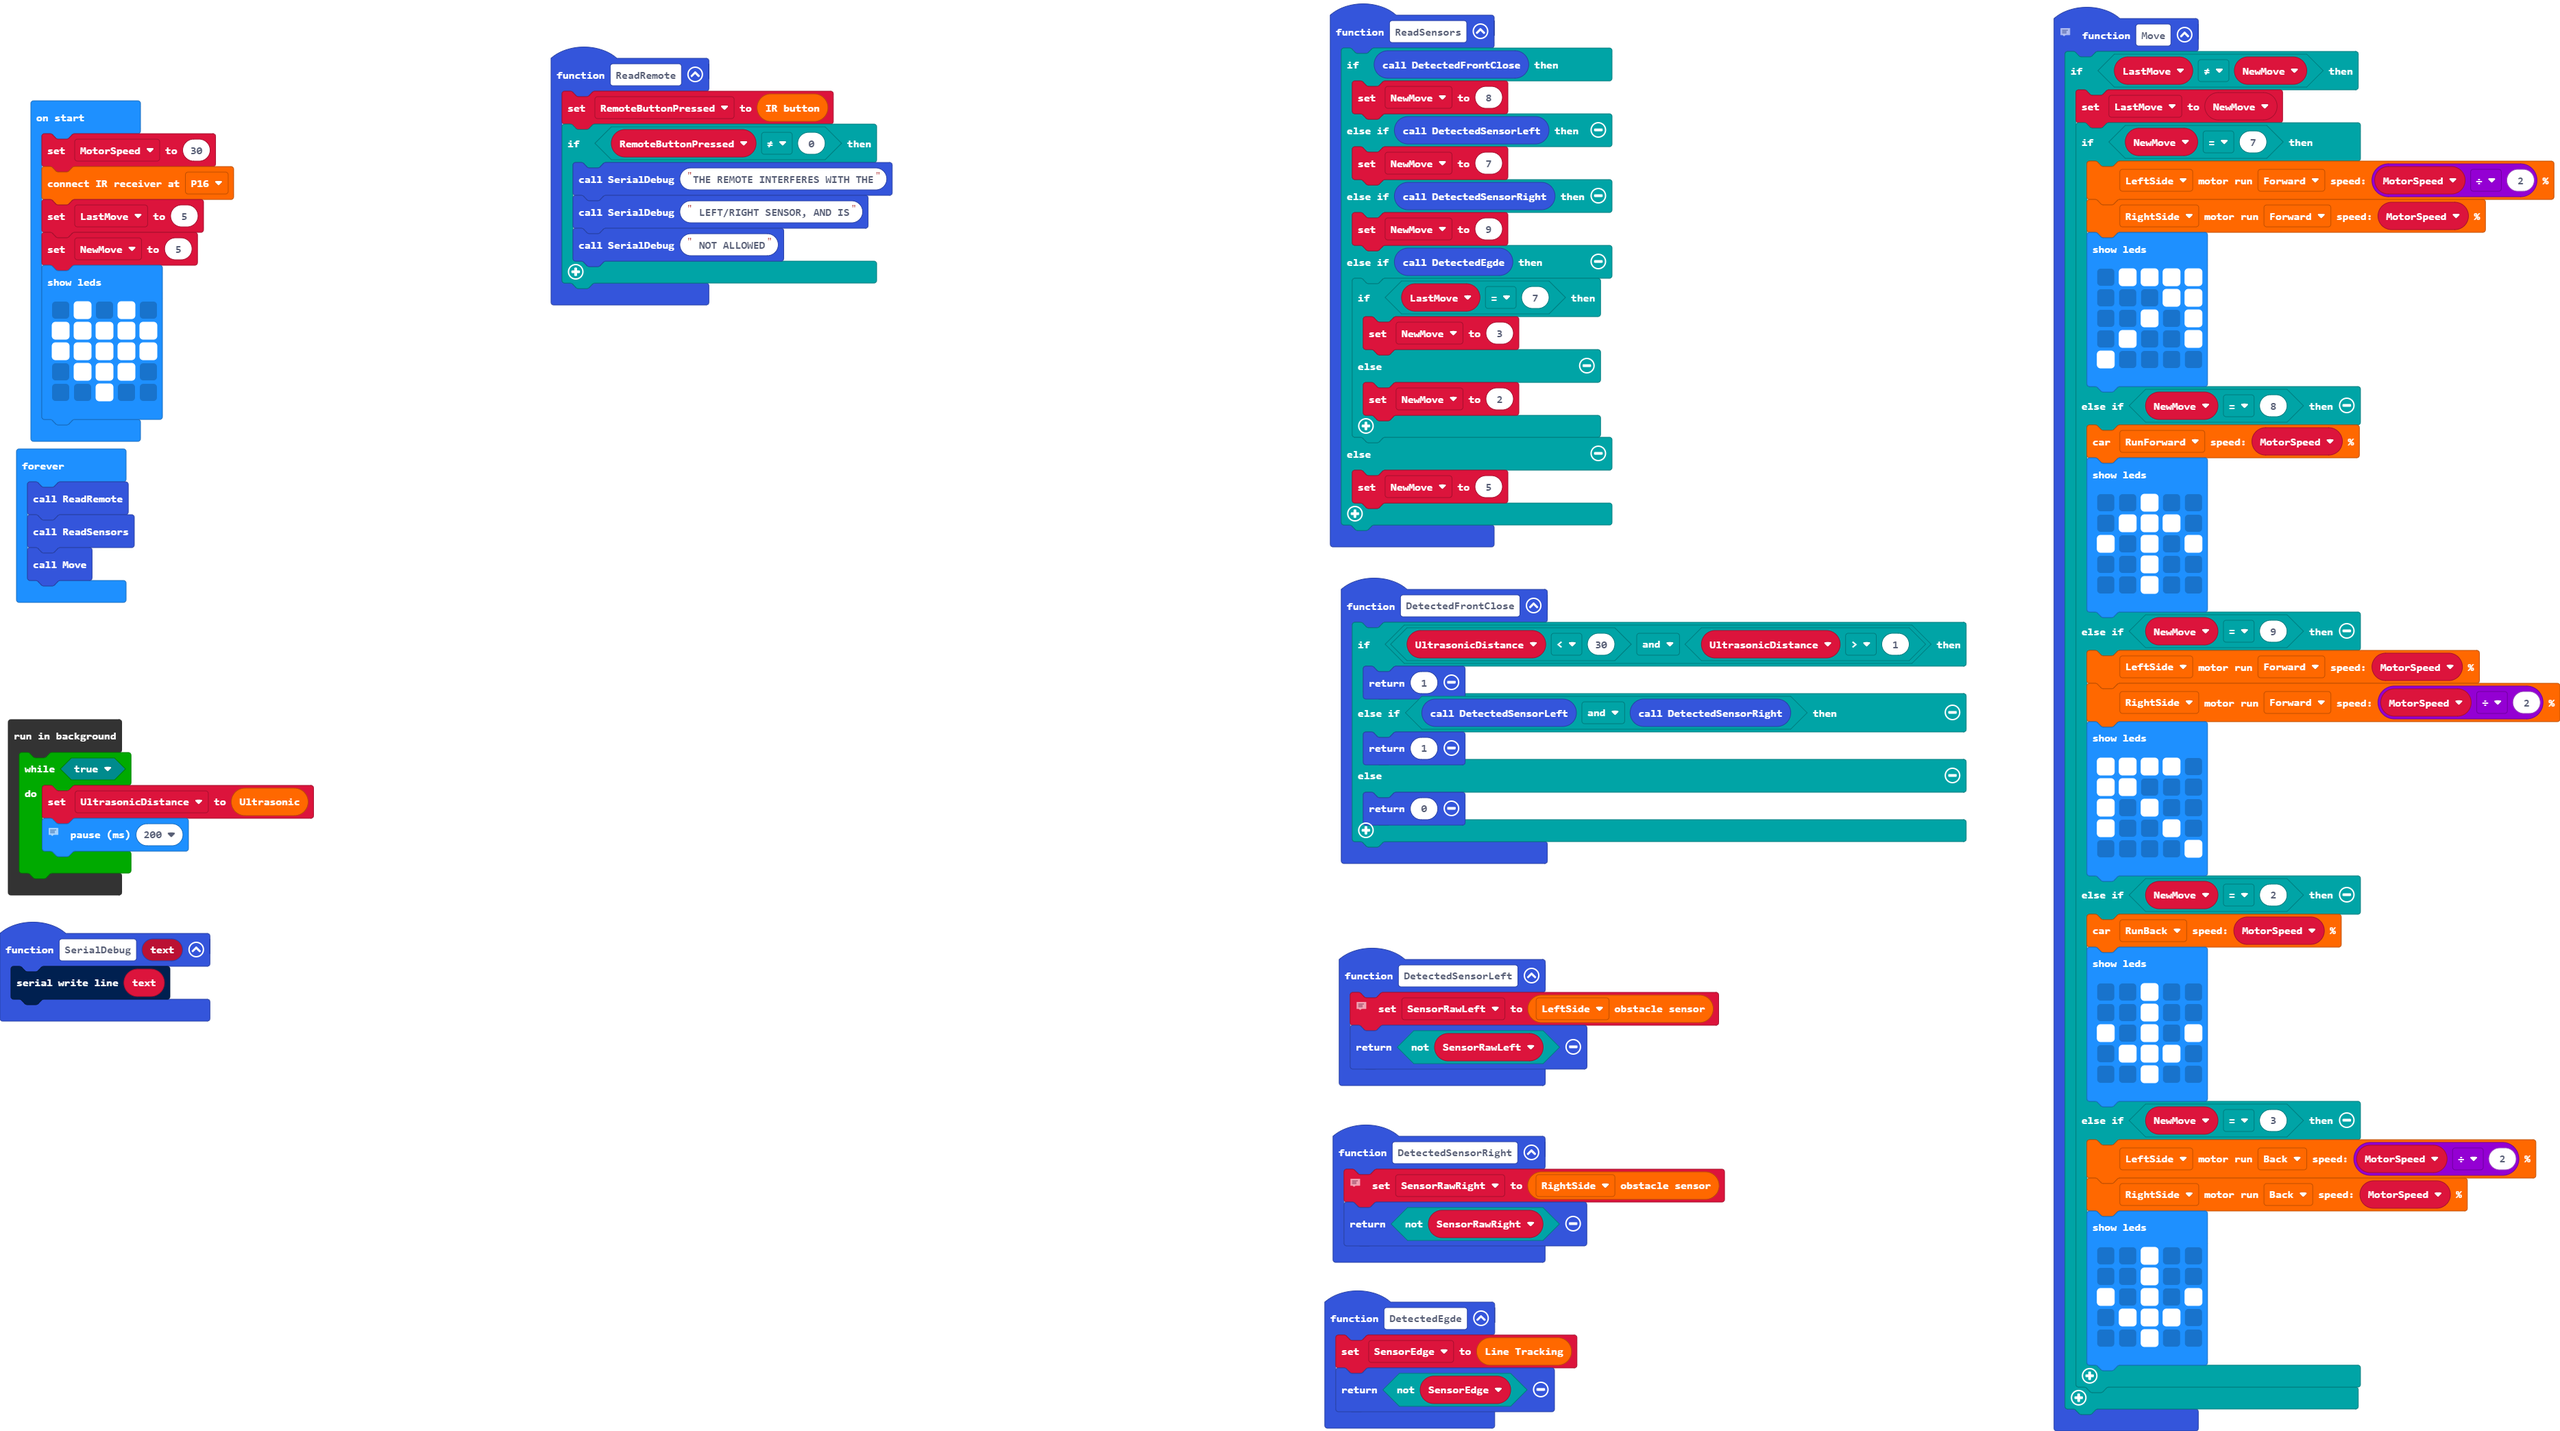
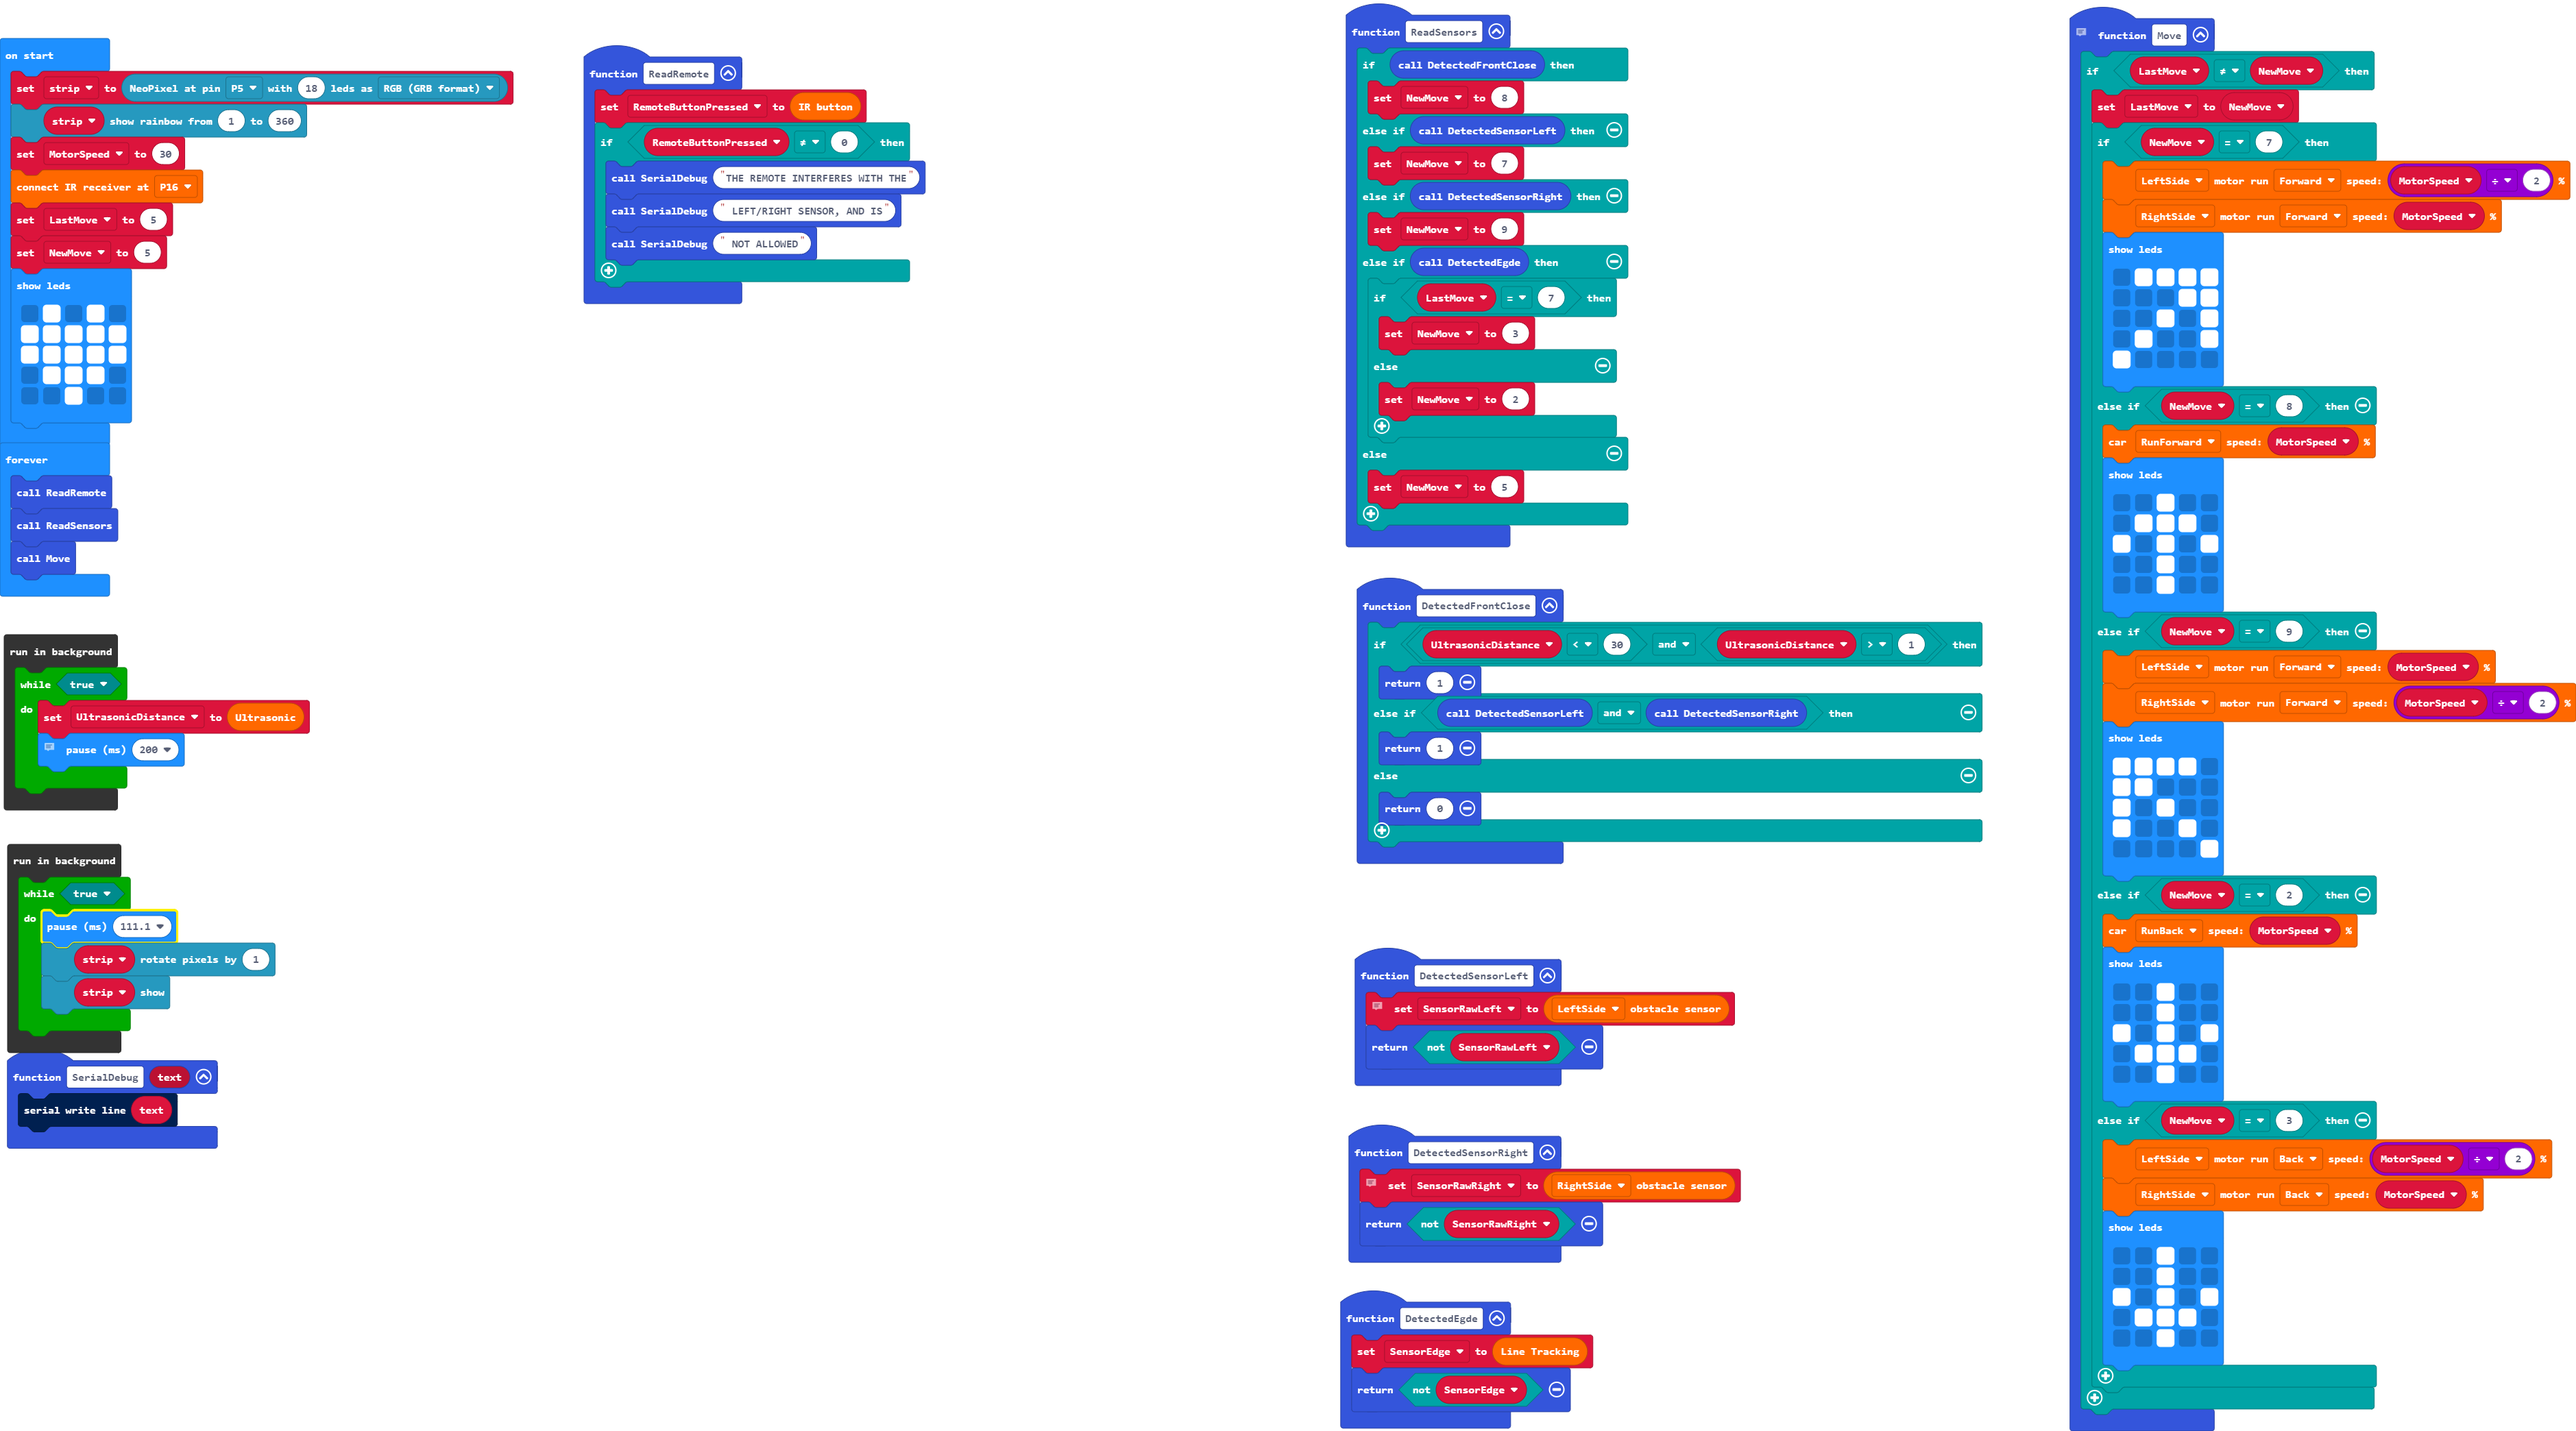
Added LED strip

diff --git a/main.ts b/main.ts
@@ -112,6 +112,8 @@ let SensorRawLeft = 0
 let NewMove = 0
 let LastMove = 0
 let MotorSpeed = 0
+let strip = neopixel.create(DigitalPin.P5, 18, NeoPixelMode.RGB)
+strip.showRainbow(1, 360)
 MotorSpeed = 30
 irRemote.connectInfrared(DigitalPin.P16)
 LastMove = 5
@@ -133,5 +135,12 @@ control.inBackground(function () {
         UltrasonicDistance = k_Bit.ultra()
         // SerialDebug("UltrasonicDistance" + UltrasonicDistance)
         basic.pause(200)
+    }
+})
+control.inBackground(function () {
+    while (true) {
+        basic.pause(111.1)
+        strip.rotate(1)
+        strip.show()
     }
 })
